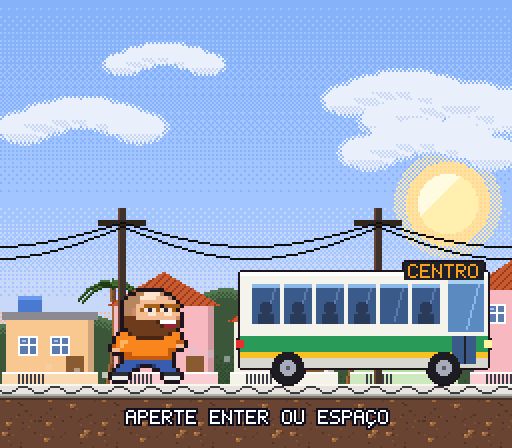
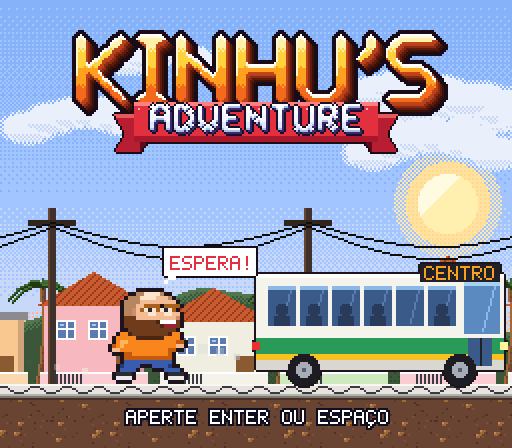
Atualização automática: 01-titulo.png,03-onibus.png 04-centro.png,05-escritorio.png e mais 1

diff --git a/tools/make-assets.js b/tools/make-assets.js
@@ -23,7 +23,7 @@ setTimeout(() => {
   ix.drawImage(SPR.kinhuHead, 0, 0, 20, 13, 2, 12, 60, 39);
   fs.writeFileSync(path.join(root, 'assets', 'icon.png'), icon.toPNG());
 
-  App.go('title', null, true); step(2); save('01-titulo');
+  App.go('title', null, true); step(130); save('01-titulo');
   Game.reset(); Game.levelIdx = 0; App.go('play', null, true);
   World.player.x = 13 * 16; World.player.y = 140; World.player.vy = -3; World.player.onGround = false; World.cam.x = 0; step(4); save('02-bairro');
   fs.copyFileSync(path.join(dir, '02-bairro.png'), path.join(root, 'assets', 'preview.png'));
